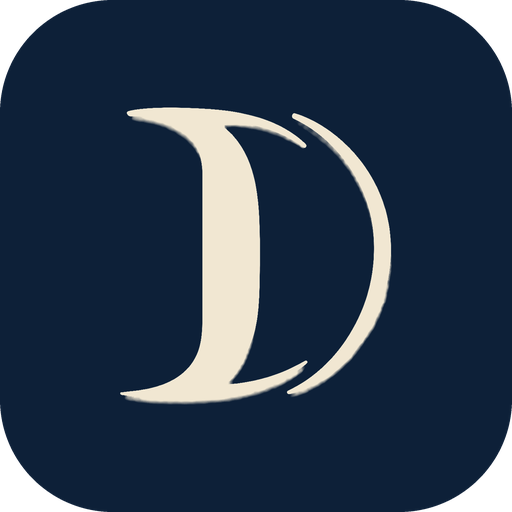
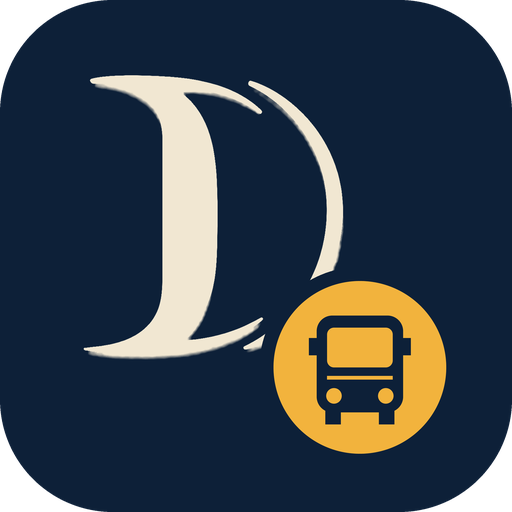
фикс иконки и подписи

Changed region(s): [[0.1562, 0.125, 0.875, 0.9062]]

diff --git a/scripts/make_icons.py b/scripts/make_icons.py
@@ -33,6 +33,14 @@ DEFAULT_VARIANT = "navy"
 # по диагонали (≈1.36 высоты) должны уместиться в 72dp: 0.44*108*1.36 ≈ 65dp (в пределах безопасной зоны 66dp).
 LOGO_FILL = 0.44
 
+# --- транспортный элемент: значок автобуса в янтарном круге рядом с логотипом
+TRANSPORT_BADGE = True
+AMBER = "#F2B33D"
+D_FILL = 0.37          # высота D на холсте 108dp (уменьшена, чтобы освободить место значку)
+D_OFFSET = (-0.055, -0.050)   # сдвиг D влево-вверх, доли от стороны холста
+BADGE_D = 0.225        # диаметр значка, доля от стороны холста
+BADGE_C = (0.635, 0.645)      # центр значка
+
 
 def hex_rgb(h):
     h = h.lstrip("#")
@@ -80,12 +88,67 @@ def place(logo, size, fill, offset=(0, 0)):
     return canvas
 
 
+def bus_badge(d, ink_hex, mono=False):
+    """Круглый значок с автобусом (вид спереди), диаметр d px. mono: белый круг с вырезанным автобусом."""
+    ss = 4
+    D = d * ss
+    disc = Image.new("L", (D, D), 0)
+    ImageDraw.Draw(disc).ellipse((0, 0, D - 1, D - 1), fill=255)
+    g = Image.new("L", (D, D), 0)  # 255 = «чернила» автобуса
+    gd = ImageDraw.Draw(g)
+
+    def box(x0, y0, x1, y1):
+        return (x0 * D, y0 * D, x1 * D, y1 * D)
+
+    gd.rounded_rectangle(box(0.25, 0.20, 0.75, 0.76), radius=0.09 * D, fill=255)  # кузов
+    gd.rectangle(box(0.205, 0.33, 0.25, 0.43), fill=255)  # зеркала
+    gd.rectangle(box(0.75, 0.33, 0.795, 0.43), fill=255)
+    gd.rectangle(box(0.30, 0.72, 0.39, 0.83), fill=255)   # колёса
+    gd.rectangle(box(0.61, 0.72, 0.70, 0.83), fill=255)
+    gd.rounded_rectangle(box(0.31, 0.27, 0.69, 0.50), radius=0.04 * D, fill=0)  # лобовое стекло
+    gd.line(box(0.31, 0.56, 0.69, 0.56), fill=0, width=max(1, int(0.022 * D)))   # полоса бампера
+    for cx in (0.35, 0.65):                                                      # фары
+        gd.ellipse(box(cx - 0.045, 0.62, cx + 0.045, 0.71), fill=0)
+    if mono:
+        alpha = Image.fromarray((np.asarray(disc).astype(np.float32) * (1 - np.asarray(g).astype(np.float32) / 255.0)).astype(np.uint8), "L")
+        out = Image.new("RGBA", (D, D), (255, 255, 255, 0))
+        out.putalpha(alpha)
+    else:
+        out = Image.new("RGBA", (D, D), hex_rgb(AMBER) + (0,))
+        out.putalpha(disc)
+        ink = Image.new("RGBA", (D, D), hex_rgb(ink_hex) + (255,))
+        ink.putalpha(g)
+        out.alpha_composite(ink)
+    return out.resize((d, d), Image.LANCZOS)
+
+
+def compose(logo, bg_hex, size, mono=False):
+    """Передний план иконки (холст size×size = 108dp): логотип D + транспортный значок."""
+    if not TRANSPORT_BADGE:
+        return place(silhouette(logo) if mono else logo, size, LOGO_FILL)
+    off = (int(round(D_OFFSET[0] * size)), int(round(D_OFFSET[1] * size)))
+    base = place(silhouette(logo) if mono else logo, size, D_FILL, off)
+    d = int(round(BADGE_D * size))
+    cx, cy = int(round(BADGE_C[0] * size)), int(round(BADGE_C[1] * size))
+    # вырез вокруг значка, чтобы он не сливался с буквой
+    gap = int(round(d * 1.16))
+    hole = Image.new("L", (size, size), 255)
+    ImageDraw.Draw(hole).ellipse((cx - gap // 2, cy - gap // 2, cx + gap // 2, cy + gap // 2), fill=0)
+    a = np.asarray(base.getchannel("A")).astype(np.float32) * np.asarray(hole).astype(np.float32) / 255.0
+    base.putalpha(Image.fromarray(a.astype(np.uint8), "L"))
+    base.alpha_composite(bus_badge(d, bg_hex, mono), (cx - d // 2, cy - d // 2))
+    return base
+
+
 def legacy_icon(logo, bg, size, round_shape):
-    """Иконка для Android < 8: фон + логотип, скруглённый квадрат или круг."""
+    """Иконка для Android < 8: фон + передний план, скруглённый квадрат или круг."""
     ss = 4  # суперсэмплинг для гладких краёв
     big = size * ss
-    base = Image.new("RGBA", (big, big), hex_rgb(bg) + (255,))
-    base.alpha_composite(place(logo, big, 0.58))
+    full = int(round(big * 108 / 72))  # весь адаптивный холст; видимая часть — центральные 72dp
+    canvas = Image.new("RGBA", (full, full), hex_rgb(bg) + (255,))
+    canvas.alpha_composite(compose(logo, bg, full))
+    o = (full - big) // 2
+    base = canvas.crop((o, o, o + big, o + big))
     mask = Image.new("L", (big, big), 0)
     d = ImageDraw.Draw(mask)
     if round_shape:
@@ -116,8 +179,8 @@ def write_android(variant_key, logo):
     for name, k in densities.items():
         d = os.path.join(res, f"mipmap-{name}")
         os.makedirs(d, exist_ok=True)
-        place(fg, int(108 * k), LOGO_FILL).save(os.path.join(d, "ic_launcher_foreground.png"))
-        place(silhouette(logo), int(108 * k), LOGO_FILL).save(os.path.join(d, "ic_launcher_monochrome.png"))
+        compose(fg, v["bg"], int(108 * k)).save(os.path.join(d, "ic_launcher_foreground.png"))
+        compose(logo, v["bg"], int(108 * k), mono=True).save(os.path.join(d, "ic_launcher_monochrome.png"))
         legacy_icon(fg, v["bg"], int(48 * k), False).save(os.path.join(d, "ic_launcher.png"))
         legacy_icon(fg, v["bg"], int(48 * k), True).save(os.path.join(d, "ic_launcher_round.png"))
     any_dir = os.path.join(res, "mipmap-anydpi-v26")
@@ -162,7 +225,7 @@ def preview(fg, v, path):
             # настоящий адаптивный холст 108dp, видимая часть — центральные 72dp
             full = int(round(big * 108 / 72))
             canvas = Image.new("RGBA", (full, full), hex_rgb(v["bg"]) + (255,))
-            canvas.alpha_composite(place(fg, full, LOGO_FILL))
+            canvas.alpha_composite(compose(fg, v["bg"], full))
             off = (full - big) // 2
             tile = canvas.crop((off, off, off + big, off + big))
             m = Image.new("L", (big, big), 0)

diff --git a/README.md b/README.md
@@ -19,7 +19,10 @@
    (в репозитории лежит ключ подписи `keystore/` — поэтому приватный).
 2. Вкладка **Actions → Android APK**: сборка стартует после push, либо «Run workflow».
 3. По окончании скачайте артефакт `DataLaw-Transit-apk`, распакуйте, установите APK на телефон.
-4. Ключ подписи постоянный, поэтому новые сборки ставятся поверх старых без удаления (данные и избранное сохраняются).
+4. Ключ подписи постоянный (`keystore/datalaw-release.jks`), а `versionCode` всегда растёт, поэтому новая сборка
+   ставится **поверх** установленной, без удаления (данные и избранное сохраняются).
+   Отпечаток ключа (SHA-256) виден в итогах каждого запуска Actions — он должен совпадать от сборки к сборке.
+   Не удаляйте и не пересоздавайте keystore: с другим ключом Android потребует сначала удалить приложение.
 
 Первая сборка создаёт папку `android/` командой `npx cap add android`. Если хотите, закоммитьте её потом.
 Версия приложения берётся из `package.json` (`version`) — поднимайте её перед сборкой.
@@ -41,7 +44,7 @@ npm run typecheck
 
 ## Иконка
 
-Сгенерирована из `resources/logo-source.png`. Сейчас: тёмно-синий фон `#0D2038` и светлый логотип.
+Сгенерирована из `resources/logo-source.png`. Сейчас: тёмно-синий фон `#0D2038`, светлый логотип D и янтарный значок автобуса (`TRANSPORT_BADGE` в скрипте).
 Другие варианты (`cream`, `white`, `black`, `brown`) — `python3 scripts/make_icons.py --variant cream`
 (нужны Pillow и numpy), затем закоммитьте `resources/` и `public/`. Лист сравнения — `resources/icon-variants.png`.
 
